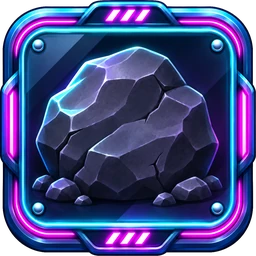
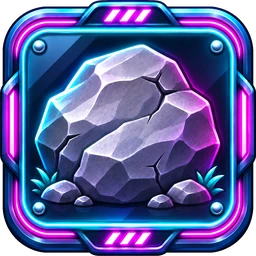
わんわんトレイン: ネオンの岩を差し替え
Claude-Session: https://claude.ai/code/session_01C8PtLDws9mEun2KRsPMwCE

diff --git a/sw.js b/sw.js
@@ -1,5 +1,5 @@
 // オフライン対応（ページは最新を優先、画像などはキャッシュを優先）
-const V='gc-v116';
+const V='gc-v117';
 const CORE=['./','index.html','coins.js','backup.js','manifest.webmanifest','icons/icon-192.png',
  ...['reversi','shogi','wanko','gomoku','memory','escape','rings','peg','slide','hanoi'].map(g=>g+'/')];
 self.addEventListener('install',e=>{e.waitUntil(caches.open(V).then(c=>c.addAll(CORE)).then(()=>self.skipWaiting()))});
